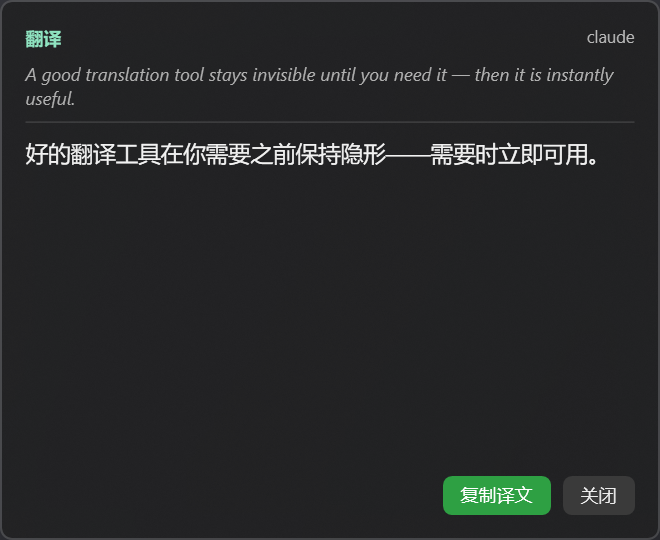
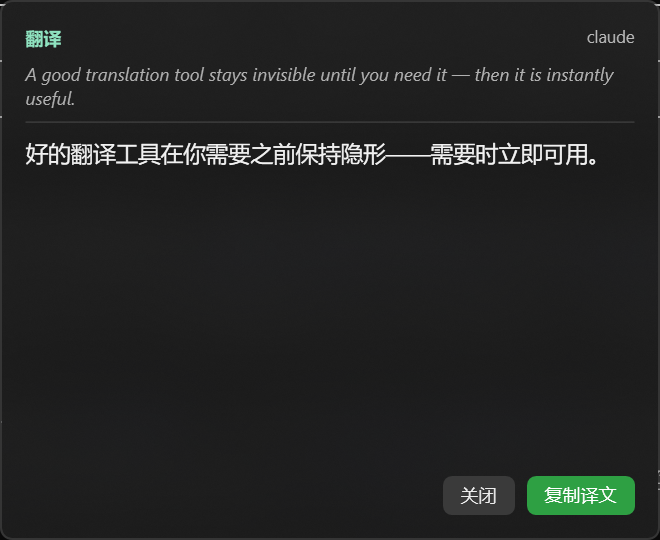
fix(windows): 浮窗操作按钮换位——「关闭」左、「复制译文」右下角
把右下角的「关闭」与「复制译文」互换:主操作「复制译文」(绿)移到最右下角,
「关闭」移到其左侧。顺带与 macOS 浮窗的按钮顺序一致。
同步更新含双按钮的浮窗截图(result/history/large;loading/error 仅「关闭」不变)。

diff --git a/platforms/windows/src/TranslateTheDamn.App/UI/PopupWindow.xaml b/platforms/windows/src/TranslateTheDamn.App/UI/PopupWindow.xaml
@@ -61,12 +61,12 @@
                             ToolTip="较新" Click="NextButton_Click"/>
                 </StackPanel>
                 <StackPanel DockPanel.Dock="Right" Orientation="Horizontal">
-                    <Button x:Name="CopyButton" Content="复制译文" Padding="12,5"
-                            Foreground="White" Background="#2EA043" BorderThickness="0" Cursor="Hand"
-                            Click="CopyButton_Click"/>
-                    <Button x:Name="CloseButton" Content="关闭" Padding="12,5" Margin="8,0,0,0"
+                    <Button x:Name="CloseButton" Content="关闭" Padding="12,5"
                             Foreground="#EDEDED" Background="#3A3A3A" BorderThickness="0" Cursor="Hand"
                             Click="CloseButton_Click"/>
+                    <Button x:Name="CopyButton" Content="复制译文" Padding="12,5" Margin="8,0,0,0"
+                            Foreground="White" Background="#2EA043" BorderThickness="0" Cursor="Hand"
+                            Click="CopyButton_Click"/>
                 </StackPanel>
             </DockPanel>
         </Grid>